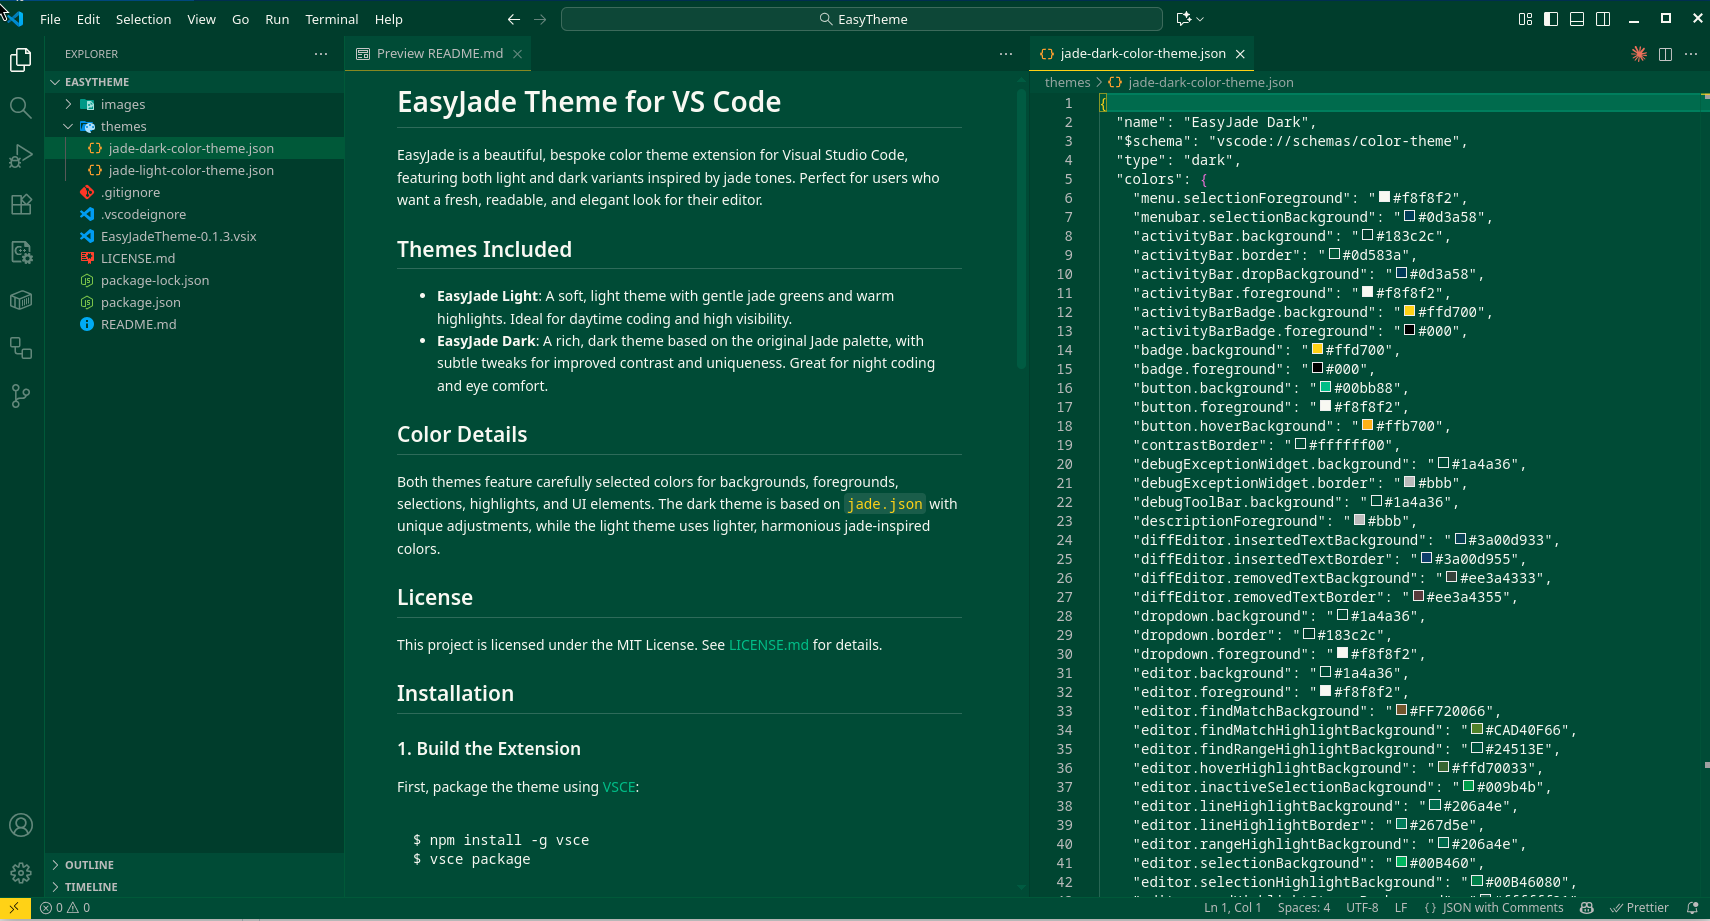
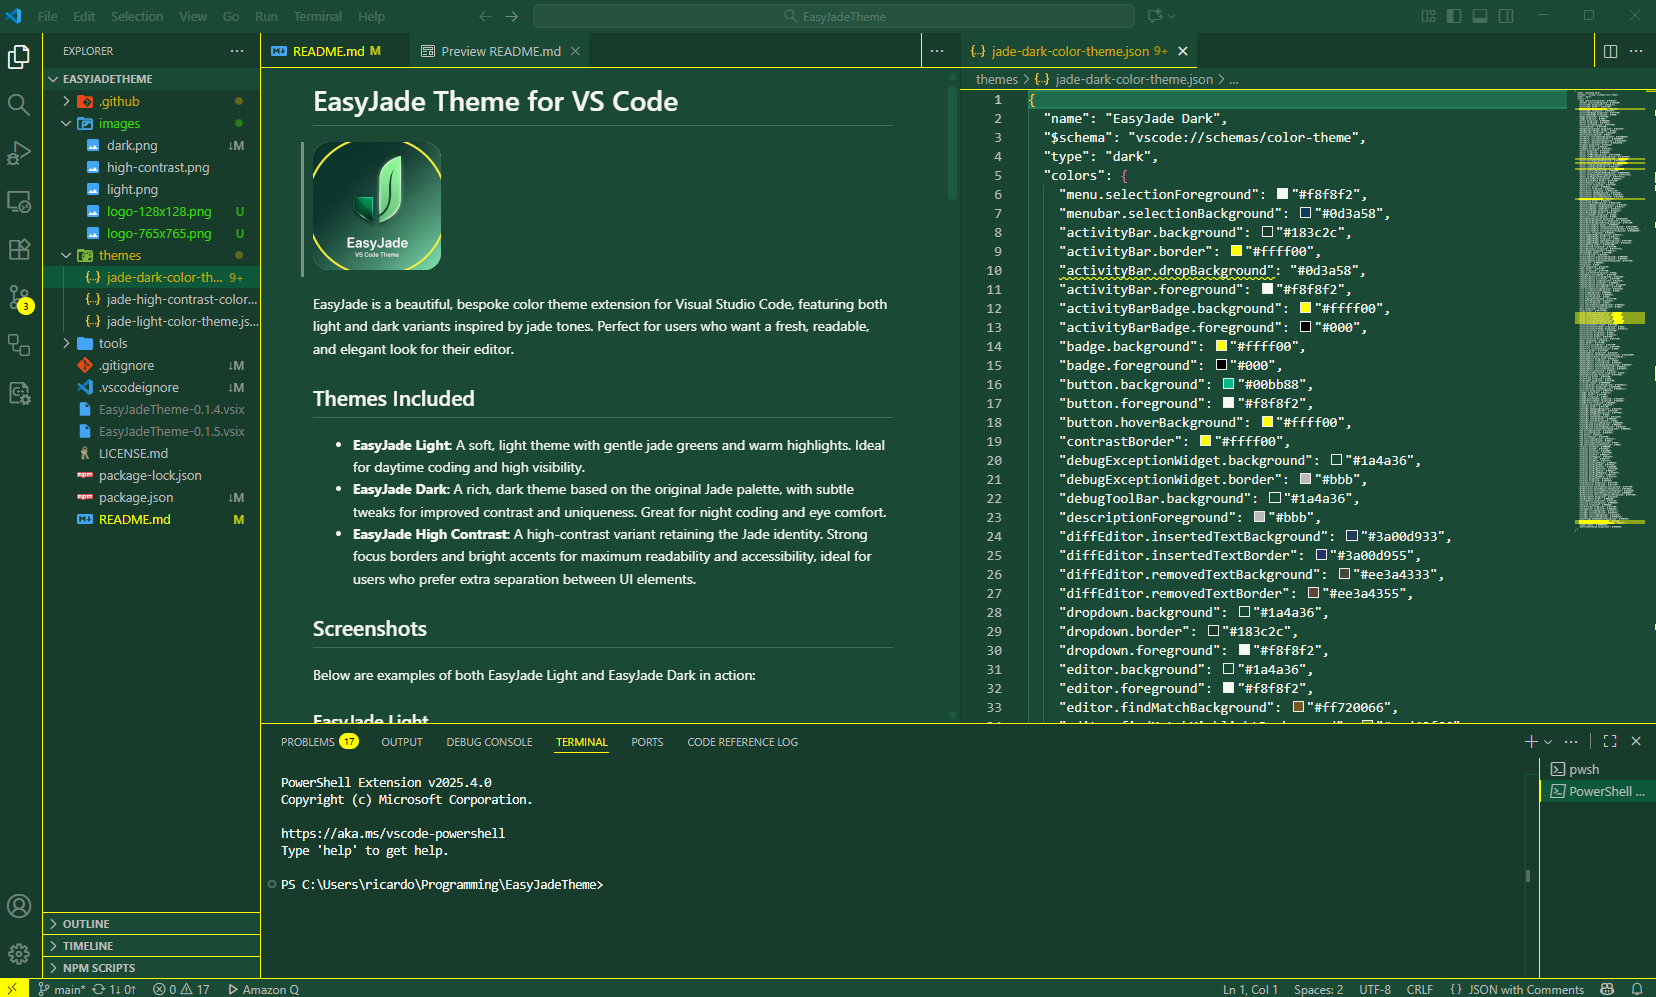
updated image, package and .gitignore

diff --git a/README.md b/README.md
@@ -1,6 +1,8 @@
 
 # EasyJade Theme for VS Code
 
+![EasyJade Theme](./images/logo-128x128.png)
+
 EasyJade is a beautiful, bespoke color theme extension for Visual Studio Code, featuring both light and dark variants inspired by jade tones. Perfect for users who want a fresh, readable, and elegant look for their editor.
 
 ## Themes Included
@@ -25,7 +27,7 @@ Below are examples of both EasyJade Light and EasyJade Dark in action:
 
 ## Color Details
 
-Both themes feature carefully selected colors for backgrounds, foregrounds, selections, highlights, and UI elements. The dark theme is based on `jade.json` with unique adjustments, while the light theme uses lighter, harmonious jade-inspired colors.
+Both themes feature carefully selected colors for backgrounds, foregrounds, selections, highlights, and UI elements. The dark theme is my favourite with unique adjustments to my eyes, while the light theme uses lighter, harmonious jade-inspired colors.
 
 ## License
 
